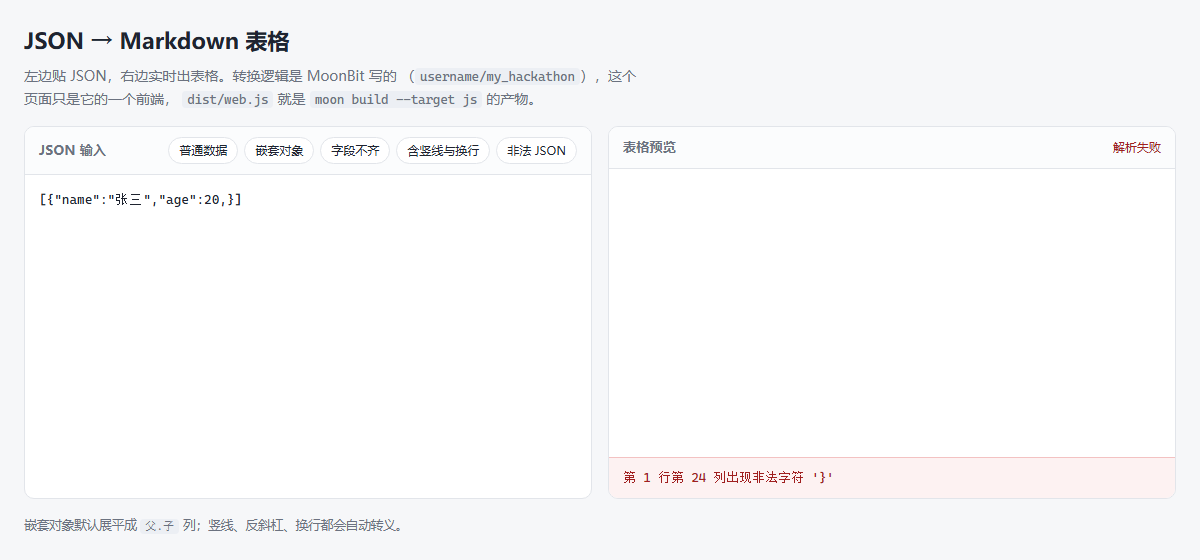
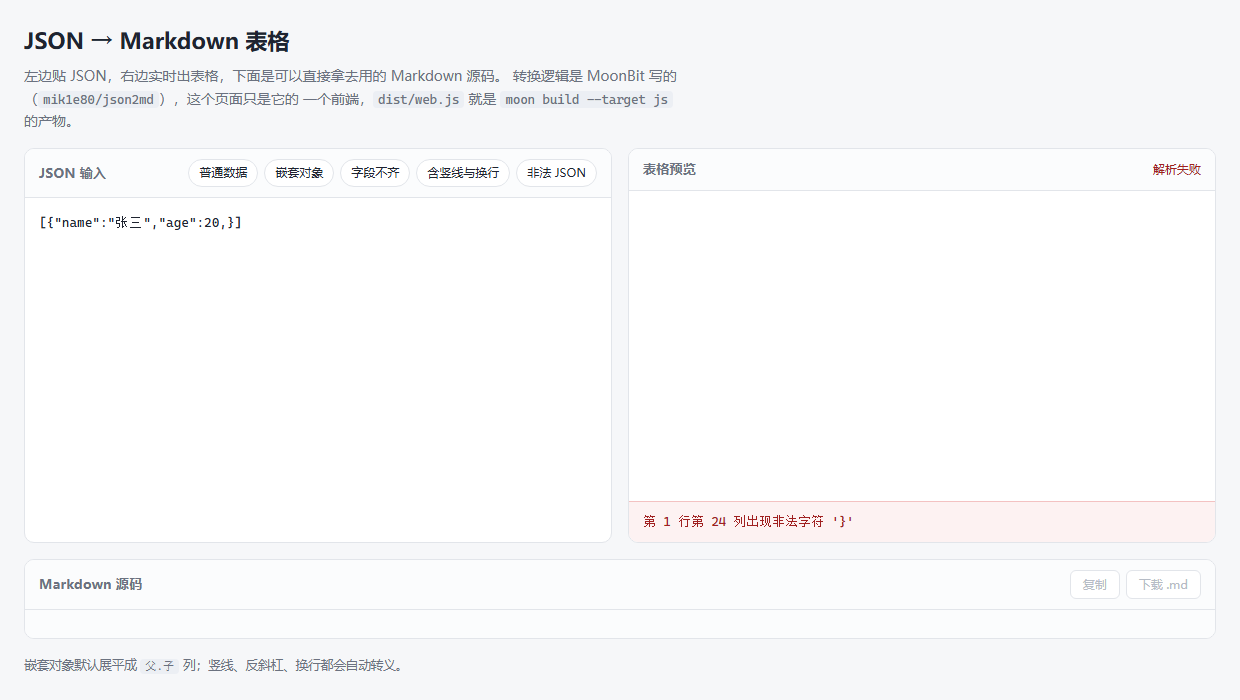
网页版补上 Markdown 源码区、复制和下载
之前网页版只有「输入 → 预览」，唯独没把产出物交出去：你看得到渲染出来
的表格，但拿不到那段 Markdown 文本，也就没法粘到文档里。而这工具的产出
物恰恰就是那段文本——CLI 能重定向到文件，库能拿到 String，只有网页版
断在了最后一步。

改动：

- 预览下方新增「Markdown 源码」区，等宽字体、不折行（Markdown 表格本来
  就是一行一条，折了就看不出结构）
- 「复制」按钮：写剪贴板
- 「下载 .md」按钮：存成 table.md
- 解析失败或结果是空表格时，源码区留空、两个按钮置灰，一眼能看出没东西
  可拿，而不是点了没反应
- 源码区本身可以手动选中复制，不依赖剪贴板 API

复制那块有个坑：navigator.clipboard 需要安全上下文，而这个页面是要能
双击打开（file://）的，不能假设有 https。所以留了一条 document.execCommand
的老路兜底，并在 select() 之前先 focus()——execCommand("copy") 要求文档
有焦点，少了这步选区可能建不起来，复制会静默失败。

布局相应调整：上半部分仍是输入和预览并排，下半部分是整宽的源码区。

截图更新（旧的看不到源码区），README 的「网页版」一节补按钮说明和禁用
规则，特性列表同步。

验证：无头 Edge 逐个核对了各状态——普通输入（源码有内容、按钮可用、
内容和库输出逐字一致）、非法 JSON / 空数组 / 全空对象（源码空、按钮禁用）、
含转义的输入（a\|b 正确）；moon test 99 个全绿。

注：无头环境下复制必然失败（没有真实用户点击和页面焦点），这个在浏览器
里点一下才能最终确认。

diff --git a/web/app.js b/web/app.js
@@ -150,6 +150,24 @@ const previewEl = document.getElementById("preview");
 const errorEl = document.getElementById("error");
 const statusEl = document.getElementById("status");
 const examplesEl = document.getElementById("examples");
+const sourceEl = document.getElementById("source");
+const copyBtn = document.getElementById("copy");
+const downloadBtn = document.getElementById("download");
+
+/// 当前生成的 Markdown，复制和下载都从这里取。
+let currentMarkdown = "";
+
+/// 把生成的 Markdown 放进源码区。
+///
+/// 没有内容时（解析失败、空表格）连同复制/下载按钮一起禁用——
+/// 让人一眼看出「现在没东西可拿」，而不是点了没反应。
+function setOutput(markdown) {
+  currentMarkdown = markdown;
+  sourceEl.textContent = markdown;
+  const hasOutput = markdown !== "";
+  copyBtn.disabled = !hasOutput;
+  downloadBtn.disabled = !hasOutput;
+}
 
 function render() {
   const json = inputEl.value;
@@ -168,6 +186,7 @@ function render() {
     errorEl.hidden = false;
     statusEl.textContent = "解析失败";
     statusEl.className = "status status-error";
+    setOutput("");
     return;
   }
 
@@ -179,12 +198,14 @@ function render() {
     previewEl.appendChild(p);
     statusEl.textContent = "空表格";
     statusEl.className = "status";
+    setOutput("");
     return;
   }
 
   previewEl.appendChild(renderTable(table));
   statusEl.textContent = `${table.rows.length} 行 × ${table.headers.length} 列`;
   statusEl.className = "status status-ok";
+  setOutput(md);
 }
 
 /// 输入时不要每敲一个键就重算，稍微等一下。
@@ -206,6 +227,82 @@ for (const [key, example] of Object.entries(EXAMPLES)) {
 }
 
 inputEl.addEventListener("input", scheduleRender);
+
+// ── 复制与下载 ──────────────────────────────────────────────────────────
+
+/// 复制文本到剪贴板，成功返回 true。
+///
+/// 先用 navigator.clipboard，它需要「安全上下文」；这个页面是要能双击
+/// 打开（file://）的，不能假设有 https，所以下面留了一条 execCommand 的
+/// 老路兜底。execCommand 虽然已废弃，但目前所有浏览器都还支持。
+async function copyText(text) {
+  if (navigator.clipboard !== undefined) {
+    try {
+      await navigator.clipboard.writeText(text);
+      return true;
+    } catch {
+      // 被权限或安全上下文拦下了，走兜底
+    }
+  }
+
+  const scratch = document.createElement("textarea");
+  scratch.value = text;
+  scratch.setAttribute("readonly", "");
+  // 放在视口外，避免复制时页面跳一下
+  scratch.style.position = "fixed";
+  scratch.style.top = "-1000px";
+  document.body.appendChild(scratch);
+  // 必须先 focus 再 select：execCommand("copy") 要求文档有焦点，
+  // 少了这一步在某些情况下选区建不起来，复制会静默失败
+  scratch.focus();
+  scratch.select();
+  let ok = false;
+  try {
+    ok = document.execCommand("copy");
+  } catch {
+    ok = false;
+  }
+  scratch.remove();
+  return ok;
+}
+
+/// 按钮上短暂显示一句反馈，然后恢复原文案。
+function flash(button, text) {
+  if (button.dataset.timer !== undefined) {
+    clearTimeout(Number(button.dataset.timer));
+  } else {
+    button.dataset.label = button.textContent;
+  }
+  button.textContent = text;
+  button.classList.add("done");
+  button.dataset.timer = String(
+    setTimeout(() => {
+      button.textContent = button.dataset.label;
+      button.classList.remove("done");
+      delete button.dataset.timer;
+    }, 1500)
+  );
+}
+
+copyBtn.addEventListener("click", async () => {
+  const ok = await copyText(currentMarkdown);
+  flash(copyBtn, ok ? "已复制" : "复制失败");
+});
+
+downloadBtn.addEventListener("click", () => {
+  const blob = new Blob([currentMarkdown], {
+    type: "text/markdown;charset=utf-8",
+  });
+  const url = URL.createObjectURL(blob);
+  const link = document.createElement("a");
+  link.href = url;
+  link.download = "table.md";
+  document.body.appendChild(link);
+  link.click();
+  link.remove();
+  // 立刻 revoke 有些浏览器会来不及读，挪到下一轮事件循环
+  setTimeout(() => URL.revokeObjectURL(url), 0);
+});
 
 inputEl.value = EXAMPLES.nested.json;
 render();

diff --git a/web/index.html b/web/index.html
@@ -10,33 +10,49 @@
     <header class="page-head">
       <h1>JSON → Markdown 表格</h1>
       <p>
-        左边贴 JSON，右边实时出表格。转换逻辑是 MoonBit 写的
-        （<code>mik1e80/json2md</code>），这个页面只是它的一个前端，
-        <code>dist/web.js</code> 就是 <code>moon build --target js</code> 的产物。
+        左边贴 JSON，右边实时出表格，下面是可以直接拿去用的 Markdown 源码。
+        转换逻辑是 MoonBit 写的（<code>mik1e80/json2md</code>），这个页面只是它的
+        一个前端，<code>dist/web.js</code> 就是 <code>moon build --target js</code>
+        的产物。
       </p>
     </header>
 
     <main class="panes">
-      <section class="pane">
-        <div class="pane-head">
-          <h2>JSON 输入</h2>
-          <div class="examples" id="examples"></div>
-        </div>
-        <textarea id="input" spellcheck="false" autocomplete="off"></textarea>
-      </section>
+      <div class="row">
+        <section class="pane">
+          <div class="pane-head">
+            <h2>JSON 输入</h2>
+            <div class="examples" id="examples"></div>
+          </div>
+          <textarea id="input" spellcheck="false" autocomplete="off"></textarea>
+        </section>
 
-      <section class="pane">
+        <section class="pane">
+          <div class="pane-head">
+            <h2>表格预览</h2>
+            <span class="status" id="status"></span>
+          </div>
+          <div class="preview" id="preview"></div>
+          <p class="error" id="error" hidden></p>
+        </section>
+      </div>
+
+      <section class="pane output">
         <div class="pane-head">
-          <h2>表格预览</h2>
-          <span class="status" id="status"></span>
+          <h2>Markdown 源码</h2>
+          <div class="actions">
+            <button type="button" id="copy">复制</button>
+            <button type="button" id="download">下载 .md</button>
+          </div>
         </div>
-        <div class="preview" id="preview"></div>
-        <p class="error" id="error" hidden></p>
+        <pre id="source"></pre>
       </section>
     </main>
 
     <footer class="page-foot">
-      <span>嵌套对象默认展平成 <code>父.子</code> 列；竖线、反斜杠、换行都会自动转义。</span>
+      <span
+        >嵌套对象默认展平成 <code>父.子</code> 列；竖线、反斜杠、换行都会自动转义。</span
+      >
     </footer>
 
     <!-- MoonBit 编译出来的转换函数（挂成全局的 convert / convert_error） -->

diff --git a/web/style.css b/web/style.css
@@ -40,7 +40,7 @@ body {
 
 .page-head p {
   margin: 0;
-  max-width: 76ch;
+  max-width: 80ch;
   color: var(--muted);
 }
 
@@ -52,16 +52,25 @@ code {
   font-size: 0.9em;
 }
 
+/* 上半部分是输入 + 预览并排，下半部分是 Markdown 源码 */
 .panes {
   flex: 1;
+  display: flex;
+  flex-direction: column;
+  gap: 16px;
+  min-height: 0;
+}
+
+.row {
+  flex: 1;
   display: grid;
-  grid-template-columns: minmax(0, 1fr) minmax(0, 1fr);
+  grid-template-columns: repeat(2, minmax(0, 1fr));
   gap: 16px;
   min-height: 0;
 }
 
 @media (max-width: 900px) {
-  .panes {
+  .row {
     grid-template-columns: minmax(0, 1fr);
   }
 }
@@ -202,6 +211,63 @@ textarea {
 
 .error[hidden] {
   display: none;
+}
+
+/* Markdown 源码区 */
+.output {
+  flex: 0 0 auto;
+}
+
+.actions {
+  display: flex;
+  gap: 6px;
+}
+
+.actions button {
+  padding: 4px 12px;
+  border: 1px solid var(--border);
+  border-radius: 6px;
+  background: var(--surface);
+  color: var(--text);
+  font: inherit;
+  font-size: 12px;
+  cursor: pointer;
+}
+
+.actions button:hover:not(:disabled) {
+  border-color: var(--accent);
+  color: var(--accent);
+  background: var(--accent-soft);
+}
+
+.actions button:active:not(:disabled) {
+  transform: translateY(1px);
+}
+
+.actions button:disabled {
+  color: #b6bcc6;
+  cursor: not-allowed;
+}
+
+.actions button.done {
+  border-color: var(--ok);
+  color: var(--ok);
+  background: #eef8f2;
+}
+
+/* 源码不折行：Markdown 表格本来就是一行一条，折了就看不出结构了 */
+#source {
+  margin: 0;
+  padding: 14px;
+  overflow: auto;
+  max-height: 180px;
+  background: #fbfcfd;
+  color: var(--text);
+  font-family: var(--mono);
+  font-size: 12.5px;
+  line-height: 1.7;
+  white-space: pre;
+  tab-size: 2;
 }
 
 .page-foot {

diff --git a/README.mbt.md b/README.mbt.md
@@ -58,8 +58,8 @@ match @json2md.json_to_markdown_table(input) {
 - **三种输入**：命令行参数、文件（自动剥 UTF-8 BOM）、标准输入管道
 - **退出码**：出错时退出码为 1，脚本能直接判断成功与否
 - **网页版**：用浏览器打开 `web/index.html` 就有一个实时转换的界面（也可以直接
-  用在线链接）。页面上的转换逻辑不是用 JavaScript 重写的，而是同一份 MoonBit
-  代码编译成 JS 跑在浏览器里
+  用在线链接），预览加 Markdown 源码，可一键复制或下载成 `.md` 文件。页面上的
+  转换逻辑不是用 JavaScript 重写的，而是同一份 MoonBit 代码编译成 JS 跑在浏览器里
 
 ## 命令行用法
 
@@ -118,10 +118,21 @@ moon run cmd/main -- --help
 
 ![网页界面](web/screenshot.png)
 
-`web/index.html` 是一个交互界面：左边贴 JSON，右边实时出表格，写错了直接在
-下面显示中文错误（带行列位置）。页面上方有五个一键示例。
+`web/index.html` 是一个交互界面：左边贴 JSON，右边实时出表格，下方给出可以直接
+拿去用的 **Markdown 源码**，带复制和下载按钮。写错了直接在预览下方显示中文错误
+（带行列位置）。页面上方有五个一键示例。
 
 ![错误提示](web/screenshot-error.png)
+
+产出物就是那段 Markdown，所以除了看预览，页面把文本本身也交到你手上：
+
+| 按钮 | 做什么 |
+| --- | --- |
+| 复制 | 复制 Markdown 到剪贴板，粘到文档里就能用 |
+| 下载 .md | 存成 `table.md` 文件 |
+
+解析失败或者结果是空表格时，源码区为空、两个按钮置灰——一眼能看出「现在没东西
+可拿」，而不是点了没反应。源码区也可以手动选中复制，不依赖剪贴板 API。
 
 **用浏览器打开 `web/index.html` 就能用**——不用装 npm、不用起服务器、不用构建。
 转换逻辑不是用 JavaScript 重写的，而是 `web/dist/web.js`：真正的 MoonBit 代码
